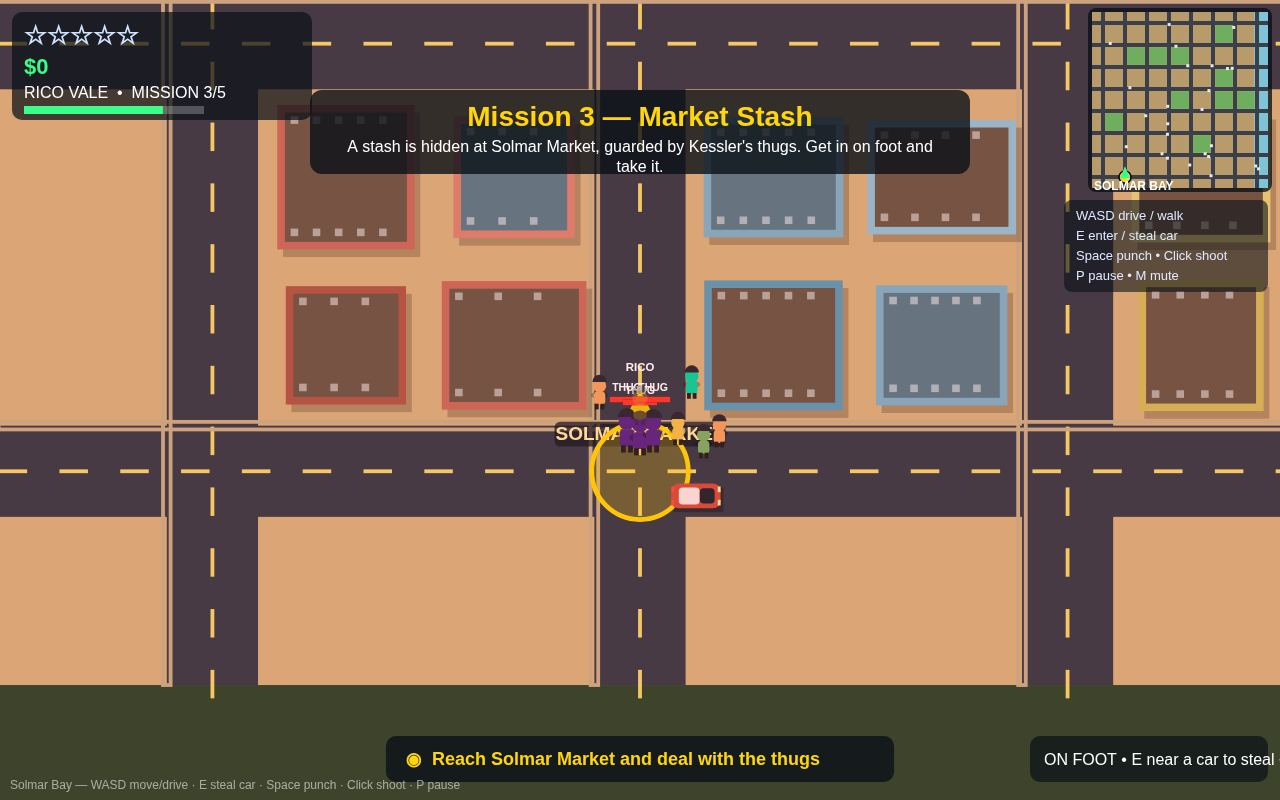
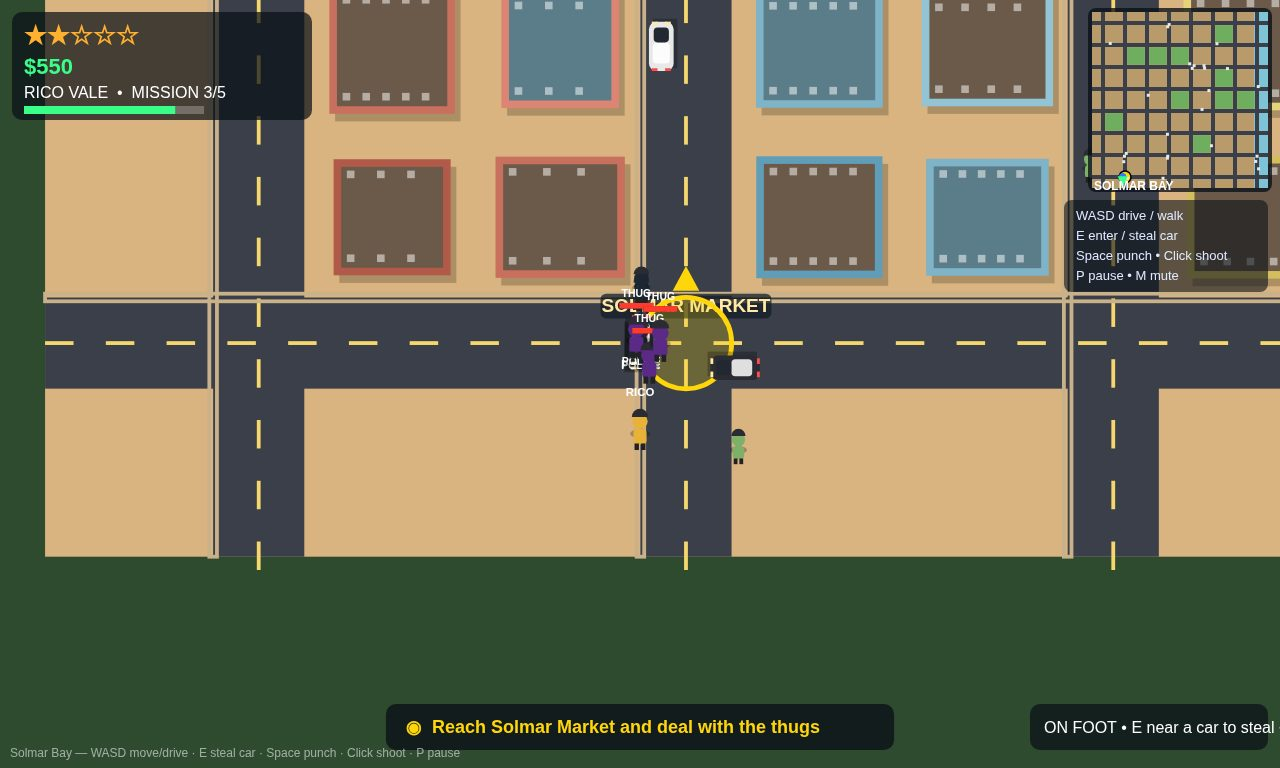
v2: fix police death spiral, traffic head-on overlap, M3/M4 balance
- police: chase top speed 540 -> 450 (player car tops out ~466), ram
  cooldown 1.2s -> 1.8s -> 2.2s, ram speed cuts only once per ram (were
  applied every frame while overlapping, pinning the player at ~0),
  ram damage 5 -> 3 -> 2, hideout decays wanted 0.35/s (vs 0.08) with
  2x quiet timer so the M4 escape can actually end
- traffic: turning cars keep their lane offset instead of snapping to
  the street centreline into oncoming cars
- player: bumping a traffic car shoves it sideways out of the lane
  instead of straight ahead + speed 0; no crash damage from traffic
  bumps (buildings still damage)
- city: buildings 120-160 -> 120-140 so street corridors are wider
- missions/player: thug punch 8 -> 5, Rico punch 18 -> 25 (two
  punches per thug) so the M3 brawl is winnable without dying
- screenshots regenerated from the v2 build (live play)

Verified live in headless Chromium (zero page errors): full
start -> M1 -> M2 -> M3 -> M4 (3 stars, escape, hideout decay
~12s) -> M5 -> DEBT PAID, $4000, all 5 missions complete.

diff --git a/game/src/police.js b/game/src/police.js
@@ -18,12 +18,17 @@ export function addWanted(police, amount, audio) {
 }
 
 export function updatePolice(police, dt, player, city, traffic, audio, game) {
+  // Laying low at the hideout shakes the trail faster: the hideout is
+  // where Rico loses the cops, so heat and the quiet timer run down
+  // quicker within its radius than out on the street.
+  const hide = city.places.hideout;
+  const hiding = hide && dist(player.x, player.y, hide.x, hide.y) < 220;
   // Heat decays when Rico stays quiet; stars fall one at a time.
   if (police.heat <= 0 && police.wanted > 0) {
-    police.quietTimer += dt;
+    police.quietTimer += dt * (hiding ? 2 : 1);
     if (police.quietTimer > 9) { police.wanted -= 1; police.quietTimer = 0; game.addToast('The heat is cooling off…'); }
   } else if (police.heat > 0) {
-    police.heat = Math.max(0, police.heat - dt * 0.08);
+    police.heat = Math.max(0, police.heat - dt * (hiding ? 0.35 : 0.08));
   }
   const wantUnits = police.wanted === 0 ? 0 : police.wanted + 1;
   // Spawn units near (but not on top of) the player.
@@ -40,13 +45,19 @@ export function updatePolice(police, dt, player, city, traffic, audio, game) {
       // Chase the car: steer toward Rico, ram when close.
       const want = angleTo(u.x, u.y, player.x, player.y);
       u.angle += clamp(angleDiff(u.angle, want), -2.6 * dt, 2.6 * dt);
-      u.speed = clamp(u.speed + 380 * dt, 0, 540);
+      u.speed = clamp(u.speed + 380 * dt, 0, 450);
       u.x += Math.cos(u.angle) * u.speed * dt;
       u.y += Math.sin(u.angle) * u.speed * dt;
       if (d < 58 && Math.abs(player.inCar.speed) < 420) {
-        player.inCar.speed *= 0.82; u.speed *= 0.7;
+        // A ram lands at most once per timer per unit: cutting the
+        // player's speed every frame while the cars overlap pins it at
+        // ~0 forever, so it can never drive away from the police.
         u.ramTimer = (u.ramTimer || 0) - dt;
-        if (u.ramTimer <= 0) { u.ramTimer = 1.2; game.addShake(3); game.onRam(); }
+        if (u.ramTimer <= 0) {
+          u.ramTimer = 2.2;
+          player.inCar.speed *= 0.82; u.speed *= 0.7;
+          game.addShake(3); game.onRam();
+        }
       }
       if (d > 1600) { const s = respawnNear(police, player); u.x = s.x; u.y = s.y; }
     } else {

diff --git a/game/src/player.js b/game/src/player.js
@@ -73,7 +73,7 @@ function nearestStealable(cars, x, y) {
 function punch(p, game, audio) {
   p.punchTimer = 0.35;
   audio.punch();
-  game.punchAt(p.x + Math.cos(p.angle) * 34, p.y + Math.sin(p.angle) * 34, 46, 18, 'player');
+  game.punchAt(p.x + Math.cos(p.angle) * 34, p.y + Math.sin(p.angle) * 34, 46, 25, 'player');
 }
 
 function shoot(p, input, game, audio) {
@@ -111,8 +111,15 @@ function updateDriving(p, input, dt, city, traffic, audio, game) {
   for (const o of traffic.cars) {
     if (o === car || o.playerDriven) continue;
     if (dist(car.x, car.y, o.x, o.y) < 52 && Math.abs(car.speed) > 60) {
-      o.x += Math.cos(car.angle) * 26; o.y += Math.sin(car.angle) * 26;
-      o.speed = 0; audio.crash(); game.addShake(4); game.onCrash(Math.abs(car.speed));
+      // Shove the car sideways out of the player's lane instead of dead
+      // ahead: a bumped car that stops in front of the player becomes a
+      // wall the player keeps rear-ending. A bump jolts; it doesn't wound
+      // like a building crash does.
+      const cross = Math.cos(car.angle) * (o.y - car.y) - Math.sin(car.angle) * (o.x - car.x);
+      const side = cross >= 0 ? 1 : -1;
+      o.x += Math.cos(car.angle + side * Math.PI / 2) * 26;
+      o.y += Math.sin(car.angle + side * Math.PI / 2) * 26;
+      audio.crash(); game.addShake(4);
     }
   }
   for (const ped of traffic.peds) {

diff --git a/game/src/traffic.js b/game/src/traffic.js
@@ -87,8 +87,11 @@ export function updateTraffic(t, dt, city, player, police) {
       const dir = Math.random() < 0.5 ? 1 : -1;
       car.horizontal = horizontal;
       car.angle = horizontal ? (dir > 0 ? 0 : Math.PI) : (dir > 0 ? Math.PI / 2 : -Math.PI / 2);
-      car.x = horizontal ? car.x : nearestStreetCoord(car.x);
-      car.y = horizontal ? nearestStreetCoord(car.y) : car.y;
+      // Keep the car's lane offset through the turn: a car that snaps to the
+      // street centreline ends up head-on in oncoming traffic.
+      const lane = (ROAD_W / 2 - 22) * (dir > 0 ? 1 : -1);
+      car.x = horizontal ? car.x : nearestStreetCoord(car.x) + lane;
+      car.y = horizontal ? nearestStreetCoord(car.y) + lane : car.y;
     } else {
       car.x = nx; car.y = ny;
     }

diff --git a/game/src/city.js b/game/src/city.js
@@ -54,7 +54,7 @@ export function buildCity() {
       const pal = pick(rng, PALETTES);
       for (let gx = 0; gx < 2; gx++) {
         for (let gy = 0; gy < 2; gy++) {
-          const w = 120 + rng() * 40, h = 120 + rng() * 40;
+          const w = 120 + rng() * 20, h = 120 + rng() * 20;
           const x = bx + 8 + gx * (block / 2) + (block / 2 - w) / 2 - 4;
           const y = by + 8 + gy * (block / 2) + (block / 2 - h) / 2 - 4;
           buildings.push({

diff --git a/game/src/missions.js b/game/src/missions.js
@@ -133,7 +133,7 @@ export function updateMissions(m, dt, game) {
         if (d > 30) { th.x += Math.cos(a) * th.speed * dt; th.y += Math.sin(a) * th.speed * dt; }
         if (d < 34 && th.attackTimer <= 0) {
           th.attackTimer = 0.9;
-          p.health -= 8; p.hurtFlash = 0.4;
+          p.health -= 5; p.hurtFlash = 0.4;
           game.audio.punch(); game.addShake(3);
           if (p.health <= 0) game.onPlayerDown();
         }

diff --git a/game/src/main.js b/game/src/main.js
@@ -85,7 +85,7 @@ game.onCrash = (speed) => {
   }
 };
 game.onRam = () => {
-  game.player.health -= 5; game.player.hurtFlash = 0.25;
+  game.player.health -= 2; game.player.hurtFlash = 0.25;
   if (game.player.health <= 0) game.onPlayerDown();
 };
 game.onPedHit = (ped) => {
